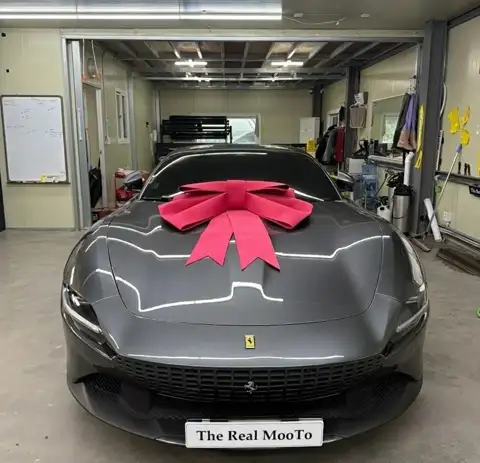
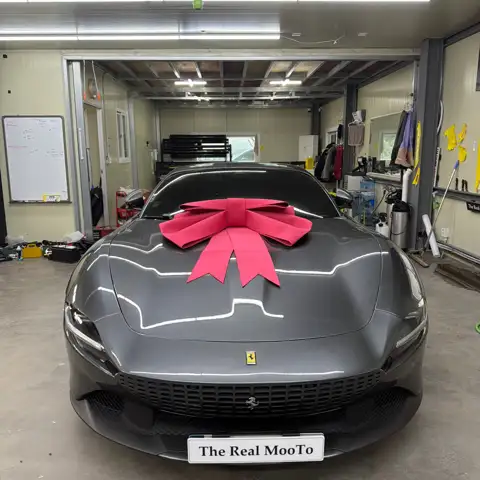
첫 화면 페라리 사진을 고화질 사진으로 교체

diff --git a/index.html b/index.html
@@ -11,7 +11,7 @@
 <div class="hd-r"><button type="button" class="ib th" aria-label="화이트·다크 모드 전환"><svg width="20" height="20" viewBox="0 0 24 24" fill="none" stroke="currentColor" stroke-width="1.5" stroke-linecap="round" stroke-linejoin="round" aria-hidden="true"><circle cx="12" cy="12" r="4"/><path d="M12 2v2M12 20v2M4.9 4.9l1.4 1.4M17.7 17.7l1.4 1.4M2 12h2M20 12h2M4.9 19.1l1.4-1.4M17.7 6.3l1.4-1.4"/></svg></button><button type="button" class="btn sm ghost" id="inst">앱 설치</button><a class="btn sm ghost hd-partner" href="/partner.html">시공사</a><a class="btn sm bw-rsv" href="/reservation.html">예약하기</a><a class="btn sm ghost hd-auth" data-auth="login" href="/community.html#/login">로그인</a><a class="btn sm ghost hd-auth" data-auth="join" href="/community.html#/signup">회원가입</a><button class="ib burger" id="burger" aria-label="메뉴 열기" aria-expanded="false"><svg width="24" height="24" viewBox="0 0 24 24" fill="none" stroke="currentColor" stroke-width="1.5" stroke-linecap="round" stroke-linejoin="round" aria-hidden="true"><path d="M4 7h16M4 12h16M4 17h16"/></svg></button></div></div>
 <form class="bw-search" action="portfolio.html" role="search"><label class="sr-only" for="bw-q">시공사례 검색</label><svg width="16" height="16" viewBox="0 0 24 24" fill="none" stroke="currentColor" stroke-width="1.5" stroke-linecap="round" stroke-linejoin="round" aria-hidden="true"><circle cx="11" cy="11" r="7"/><path d="m20 20-3.5-3.5"/></svg><input id="bw-q" name="q" type="search" placeholder="시공사례 · 차량명 검색" enterkeyhint="search"></form></header>
 <aside class="drawer" id="drawer" aria-hidden="true"><div class="drawer-in"><button class="ib close" id="dclose" aria-label="메뉴 닫기"><svg width="24" height="24" viewBox="0 0 24 24" fill="none" stroke="currentColor" stroke-width="1.5" stroke-linecap="round" stroke-linejoin="round" aria-hidden="true"><path d="M18 6 6 18M6 6l12 12"/></svg></button><p class="dh">시공 서비스</p><div class="dl"><a class="dot" style="--cc:#3D8BFF" href="/services/ppf.html">전체 PPF</a><a class="dot" style="--cc:#22D3A6" href="/services/matte-ppf.html">무광 PPF</a><a class="dot" style="--cc:#FF4F5E" href="/services/wrapping.html">랩핑</a><a class="dot" style="--cc:#C9D2DD" href="/services/chrome-delete.html">크롬죽이기</a></div><p class="dh">메뉴</p><div class="dl"><a href="/portfolio.html">시공사례</a><a href="/area.html">서비스 지역</a><a href="/reservation.html">시공문의</a><a href="/community.html">커뮤니티</a><a href="/about.html">소개</a><a href="/contact.html">문의</a></div><p class="dh">고객</p><div class="dauth"><a data-auth="login" href="/community.html#/login">로그인</a><a data-auth="join" href="/community.html#/signup">회원가입</a></div><p class="dh">시공업체</p><div class="dauth"><a href="/partner.html#login">시공사 로그인</a><a href="/partner.html#signup">시공사 가입</a></div><div class="dtool"><button type="button" class="btn ghost th">화이트·다크 모드 전환</button><button type="button" class="btn ghost" id="inst2">앱 설치</button></div><div class="dsoc"><a href="tel:01080723550">010-8072-3550</a><a href="https://open.kakao.com/o/sw33ruyf" target="_blank" rel="noopener">카카오톡 오픈채팅</a><a href="https://www.instagram.com/real_mooto/" target="_blank" rel="noopener">인스타그램</a><a href="https://blog.naver.com/sbg180" target="_blank" rel="noopener">네이버 블로그</a></div></div></aside>
-<main id="main"><section class="hero bw-hero"><div class="hero-bg"><div class="hs"><img class="hs-bg" src="/img/hero/e-md.webp" alt="" aria-hidden="true" ><img class="hs-im" src="/img/hero/e.webp" width="1827" height="1920" alt="테슬라 사이버트럭 시공 차량" fetchpriority=high></div><div class="hs"><img class="hs-bg" src="/img/hero/f-md.webp" alt="" aria-hidden="true" loading=lazy><img class="hs-im" src="/img/hero/f.webp" width="966" height="952" alt="벤틀리 시공 차량" loading=lazy></div><div class="hs"><img class="hs-bg" src="/img/hero/g-md.webp" alt="" aria-hidden="true" loading=lazy><img class="hs-im" src="/img/hero/g.webp" width="966" height="930" alt="페라리 시공 차량" loading=lazy></div><div class="hs"><img class="hs-bg" src="/img/hero/h-md.webp" alt="" aria-hidden="true" loading=lazy><img class="hs-im" src="/img/hero/h.webp" width="1024" height="987" alt="페라리 시공 차량" loading=lazy></div></div><a class="hero-scroll" href="#bw-svc" aria-label="아래로 이동"><span></span></a>
+<main id="main"><section class="hero bw-hero"><div class="hero-bg"><div class="hs"><img class="hs-bg" src="/img/hero/e-md.webp" alt="" aria-hidden="true" ><img class="hs-im" src="/img/hero/e.webp" width="1827" height="1920" alt="테슬라 사이버트럭 시공 차량" fetchpriority=high></div><div class="hs"><img class="hs-bg" src="/img/hero/f-md.webp" alt="" aria-hidden="true" loading=lazy><img class="hs-im" src="/img/hero/f.webp" width="966" height="952" alt="벤틀리 시공 차량" loading=lazy></div><div class="hs"><img class="hs-bg" src="/img/hero/g-md.webp" alt="" aria-hidden="true" loading=lazy><img class="hs-im" src="/img/hero/g.webp" width="966" height="930" alt="페라리 시공 차량" loading=lazy></div><div class="hs"><img class="hs-bg" src="/img/hero/h-md.webp" alt="" aria-hidden="true" loading=lazy><img class="hs-im" src="/img/hero/h.webp" width="1920" height="1920" alt="페라리 시공 차량" loading=lazy></div></div><a class="hero-scroll" href="#bw-svc" aria-label="아래로 이동"><span></span></a>
 <div class="wrap hero-in"><p class="bw-ey a1">PPF · WRAPPING · DECHROME</p><h1 class="tx"><span class="tl"><span style="--i:0">PPF·랩핑 시공은</span></span><span class="tl"><span style="--i:1"><em>리얼무토</em>에서</span></span></h1>
 <p class="lead a2">전체 PPF · 무광 PPF · 랩핑 · 크롬죽이기 전문 시공<br>실제 시공 사례를 확인하고 편하게 문의하세요</p>
 <div class="cta a4"><a class="btn gold" href="/reservation.html">예약하기</a><a class="btn ghost" href="/contact.html">문의하기</a></div></div></section><section class="bw-sec" id="bw-svc"><div class="wrap"><div class="bw-h rv"><div><p class="bw-ey">PREMIUM SERVICE</p><h2 class="tx"><span class="tl"><span style="--i:0">시공 서비스</span></span></h2><p>차종과 사용 환경에 맞춰 필요한 시공을 안내합니다</p></div></div><div class="bw-svc"><a class="bw-card rv" href="/services/ppf.html"><div class="bw-img"><img src="/img/ppf-12/1.webp" alt="전체 PPF 시공" loading="lazy" decoding="async"></div><div class="bw-cb"><h3>전체 PPF</h3><p>차량 외판 전체를 투명 보호필름으로 감싸는 시공</p><span class="bw-more">더보기 →</span></div></a><a class="bw-card rv" href="/services/matte-ppf.html"><div class="bw-img"><img src="/img/matte-04/1.webp" alt="무광 PPF 시공" loading="lazy" decoding="async"></div><div class="bw-cb"><h3>무광 PPF</h3><p>유광 도장을 새틴 무광으로 바꾸면서 보호까지</p><span class="bw-more">더보기 →</span></div></a><a class="bw-card rv" href="/services/wrapping.html"><div class="bw-img"><img src="/img/wrap-03/1.webp" alt="랩핑 시공" loading="lazy" decoding="async"></div><div class="bw-cb"><h3>랩핑</h3><p>도색 없이 차량 컬러를 바꾸는 전체·부분 랩핑</p><span class="bw-more">더보기 →</span></div></a><a class="bw-card rv" href="/services/chrome-delete.html"><div class="bw-img"><img src="/img/chrome-02/1.webp" alt="크롬죽이기 시공" loading="lazy" decoding="async"></div><div class="bw-cb"><h3>크롬죽이기</h3><p>번쩍이는 크롬 몰딩을 블랙으로 정돈하는 시공</p><span class="bw-more">더보기 →</span></div></a></div></div></section><section class="bw-sec"><div class="wrap"><div class="bw-h rv"><div><p class="bw-ey">FOR OUR CUSTOMERS</p><h2 class="tx"><span class="tl"><span style="--i:0">고객을 위한 서비스</span></span></h2><p>상담부터 시공 후 문의까지 편하게 이용하실 수 있습니다</p></div></div><div class="bw-feat">
